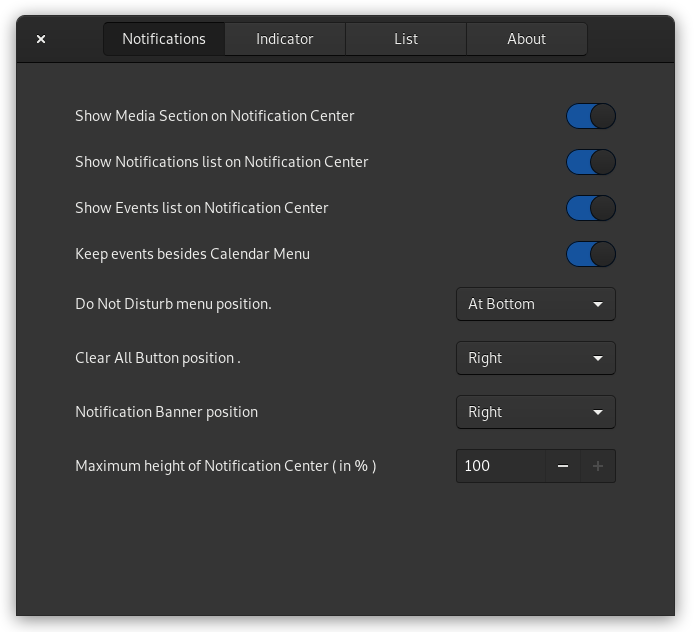
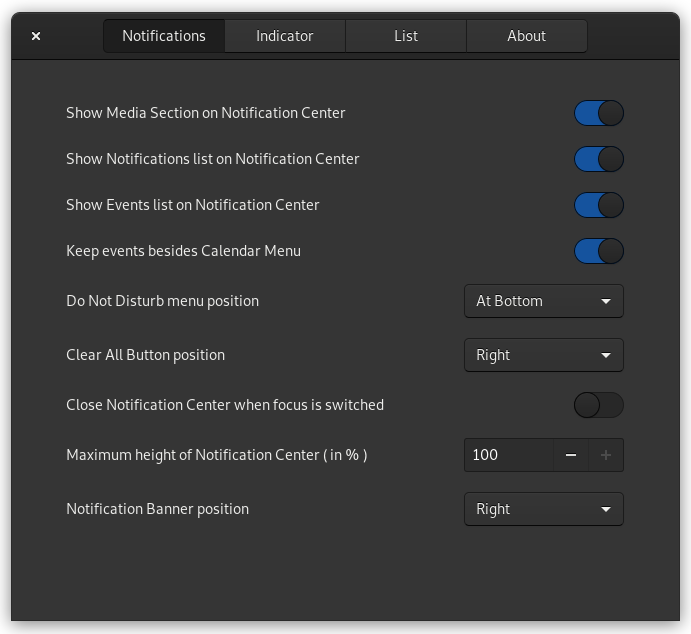
Add files via upload

diff --git a/notification-center@Selenium-H/extension.js b/notification-center@Selenium-H/extension.js
@@ -46,7 +46,7 @@ const NotificationCenter = new Lang.Class({
   _init: function () {
     Convenience.initTranslations("notification-center");
     this.prefs = Convenience.getSettings("org.gnome.shell.extensions.notification-center");
-    this.dndpref = new Gio.Settings({schema_id:'org.gnome.desktop.notifications'});
+    this.dndpref = new Gio.Settings({schema_id:"org.gnome.desktop.notifications"});
     this.parent(1-0.5*this.prefs.get_enum('indicator-pos'), "NotificationCenter");
     this.loadPreferences();
     
@@ -54,6 +54,7 @@ const NotificationCenter = new Lang.Class({
     this.showingSections = [];
     this.prefSignals = [];
     this.dmsig = null;
+    this.cmsig = null;
     this._loopTimeoutId = null;
     this.notificationCount = 0;
     this.eventsCount = 0;
@@ -64,7 +65,6 @@ const NotificationCenter = new Lang.Class({
     this.mediaIcon = new St.Icon({style_class:'system-status-icon'});
     this.notificationIcon = new St.Icon({style_class:'system-status-icon'});
     this.notificationLabel = new St.Label({ text: '',visible:false});
-
     this._indicator =  new St.BoxLayout({ vertical: false, style_class: 'panel-status-menu-box',style:"spacing:0.0em"});
 
     this._messageList = Main.panel.statusArea.dateMenu._messageList;
@@ -95,10 +95,10 @@ const NotificationCenter = new Lang.Class({
     this.menu.box.add_child(box);
   },
 
-  addThisSection:function(section,KEY,fNo) {
-    if(this.prefs.get_boolean(KEY)) {
+  addThisSection:function(section,toBeAdded,fNo) {
+    if(toBeAdded) {
       this.addSectionToThis(section);
-      this.connectedSignals.push(section._list.connect('actor-added'   ,()=> this.newNotif(fNo) ))
+      this.connectedSignals.push(section._list.connect('actor-added'   ,()=> this.newNotif(fNo) ));
       this.connectedSignals.push(section._list.connect('actor-removed' ,()=> this.remNotif(fNo) ));
       this.showingSections.push(section);   
     }
@@ -109,16 +109,29 @@ const NotificationCenter = new Lang.Class({
       this.box.add(section.actor);
   },
 
-  blinkIcon: function() {
-    if(this.prefs.get_boolean("blink-icon") && this.dndpref.get_boolean("show-banners")){
-      if(this._loopTimeoutId!=null) {
-        Mainloop.source_remove(this._loopTimeoutId);
-      }
-      this.notificationIcon.set_opacity((this.notificationIcon.get_opacity()==255)? 100 : 255);
-      this._loopTimeoutId=Mainloop.timeout_add(this.prefs.get_int('blink-time'), Lang.bind(this, this.blinkIcon));
+  autoCloseMenu : function() {
+    if (global.display.focus_window!= null && this.menu.isOpen) {
+        this.menu.close();
     }
   },
 
+  blinkIcon: function(blinkTimes,interval) {
+  
+    if(this._loopTimeoutId!=null) {
+      Mainloop.source_remove(this._loopTimeoutId);
+    }
+
+    if(blinkTimes < 0) {
+			this._loopTimeoutId=null;    
+      return;      
+    }
+    
+    if(this.dndpref.get_boolean("show-banners")){
+      this.notificationIcon.set_opacity((this.notificationIcon.get_opacity()==255)? 100 : 255);
+      this._loopTimeoutId=Mainloop.timeout_add(interval, ()=> this.blinkIcon(--blinkTimes,interval));
+    }
+  },
+  
   dndToggle: function() {
     (this.dndpref.get_boolean('show-banners')==true) ? this.dndpref.set_boolean('show-banners',false):this.dndpref.set_boolean('show-banners',true);
   },
@@ -139,7 +152,7 @@ const NotificationCenter = new Lang.Class({
             return ;
       }
     }
-    this.blinkIcon();
+    this.blinkIcon(2*this.prefs.get_int("blink-icon"),this.prefs.get_int("blink-time"));
   },
 
   indicatorViewShortcut : function() {
@@ -181,6 +194,7 @@ const NotificationCenter = new Lang.Class({
     this.showThreeIcons = this.prefs.get_boolean("individual-icons");
     this.includeEventsCount=this.prefs.get_boolean("include-events-count");
     this.newNotificationAction=this.prefs.get_enum("new-notification"); 
+    this.menuAutoclose = this.prefs.get_boolean("autoclose-menu");
   },
 
   manageAutohide: function(iconState=false) {
@@ -205,7 +219,7 @@ const NotificationCenter = new Lang.Class({
     }
     
     if(this.showEventsSection) {
-      if(Config.PACKAGE_VERSION < "3.32.0") { // For Shell Version 3.32 and beyond
+      if(Config.PACKAGE_VERSION < "3.32.0") { // For Shell Version below 3.32.0 
         if(this._messageList._eventsSection._canClear()) {
           this.actor.show();
           this.clearButton.show();
@@ -298,56 +312,55 @@ const NotificationCenter = new Lang.Class({
   },
     
   middleClickDndToggle: function (actor, event) {
-    let button = event.get_button();
-
-    if(button == 1) {
-      if (this.menu.isOpen) {
-        this._messageList.setDate(new Date());
-        if(this._loopTimeoutId!=null) { 
-          Mainloop.source_remove(this._loopTimeoutId); 
-          this._loopTimeoutId=null;
-        }    
-        if(this.prefs.get_boolean("show-label")==false) { 
-          this.notificationCount=0;
-          this.eventsCount=0;
+    switch(event.get_button()) {
+      case 1 :  // if left click
+        if (this.menu.isOpen) {
+          this._messageList.setDate(new Date());
+          if(this._loopTimeoutId!=null) { 
+            Mainloop.source_remove(this._loopTimeoutId); 
+            this._loopTimeoutId=null;
+          }    
+          if(this.prefs.get_boolean("show-label")==false) { 
+            this.notificationCount=0;
+            this.eventsCount=0;
+          }
+          this.rightClick = true;
+          this.resetIndicator();
         }
-        this.rightClick = true;
-        this.resetIndicator();
-      }
-      return;
-    }
+        return;
+        
+      case 2: // if middle click
+      
+        // close the menu, since it gets open on any click
+        if (this.menu.isOpen) {
+          this.menu.actor.hide();
+        }
+        // toggle DND state
+        this.dndToggle();
+        // reload dnd status
+        this.loadDndStatus();
+      
+        return;
+    
+      case 3 :  //if right click 
+        if(this.rightClick==false && this.menu.isOpen == true) {
+          this.removeAndDisconnectSections();
+          this.showEventsInCalendar = false;
+          this.menu.close();
+          Main.panel.statusArea.dateMenu.menu.open();
+          Main.panel.statusArea.dateMenu.menu.close();
+          this.showEventsInCalendar=(this.showEventsSection)?this.prefs.get_boolean("show-events-in-calendar"): false; 
+          this.rebuildMessageList();
+          this.menu.open();
+          this.rightClick = true;
+          return ;
+        }
 
-    if(button == 3) {
-
-      if(this.rightClick==false && this.menu.isOpen == true) {
-        this.removeAndDisconnectSections();
-        this.showEventsInCalendar = false;
-        this.menu.close();
-        Main.panel.statusArea.dateMenu.menu.open();
-        Main.panel.statusArea.dateMenu.menu.close();
-        this.showEventsInCalendar=(this.showEventsSection)?this.prefs.get_boolean("show-events-in-calendar"): false; 
-        this.rebuildMessageList();
-        this.menu.open();
-        this.rightClick = true;
-        return ;
-      }
-
-      if(this.rightClick==true || this.menu.isOpen==false) {
-        this.rightClick = false;
+        if(this.rightClick==true || this.menu.isOpen==false) {
+          this.rightClick = false;
+        }
         return;
       }
-    }  
-    // if middle click
-    if (button == 2) {
-      // close the menu, since it gets open on any click
-      if (this.menu.isOpen) {
-        this.menu.actor.hide();
-      }
-      // toggle DND state
-      this.dndToggle();
-      // reload dnd status
-      this.loadDndStatus();
-    };
   },
 
   newNotif: function(fNo) {
@@ -364,9 +377,9 @@ const NotificationCenter = new Lang.Class({
   },
 
   rebuildMessageList: function() {
-    this.addThisSection(this._messageList._mediaSection        ,"show-media"         ,0);
-    this.addThisSection(this._messageList._notificationSection ,"show-notifications" ,1);
-    this.addThisSection(this._messageList._eventsSection       ,"show-events"        ,2);
+    this.addThisSection(this._messageList._mediaSection        ,this.showMediaSection         ,0);
+    this.addThisSection(this._messageList._notificationSection ,this.showNotificationSection  ,1);
+    this.addThisSection(this._messageList._eventsSection       ,this.showEventsSection        ,2);
     this.manageEvents(1);
   },
 
@@ -383,9 +396,7 @@ const NotificationCenter = new Lang.Class({
   },
 
   removeAndDisconnectSections : function() {
-    
     let len=this.showingSections.length;
-    
     while(len!=0) {
       this.showingSections[len-1]._list.disconnect(this.connectedSignals[2*len-1]);
       this.showingSections[len-1]._list.disconnect(this.connectedSignals[2*len-2]);
@@ -443,7 +454,6 @@ const NotificationCenter = new Lang.Class({
       this.resetIndicator();
       return ;
     }
-    
     this.manageEvents(0);
   },
 
@@ -496,6 +506,10 @@ const NotificationCenter = new Lang.Class({
         this.resetIndicator();
       });
     }
+    
+    if(this.menuAutoclose) {
+      this.cmsig = global.display.connect('notify::focus-window', () => this.autoCloseMenu());
+    }
   },
 
   undoChanges: function () {
@@ -516,8 +530,12 @@ const NotificationCenter = new Lang.Class({
     Main.messageTray._bannerBin.show();
     Main.messageTray._bannerBin.x=0;
     
-    if(this.dmSig!= null) {
+    if(this.showEventsSection) {
       Main.panel.statusArea.dateMenu.menu.disconnect(this.dmSig);
+    }
+    
+    if(this.menuAutoclose) {
+       global.display.disconnect(this.cmsig);
     }
 
     for(let i=1;i<this.dtActors.length;i++) {

diff --git a/notification-center@Selenium-H/prefs.js b/notification-center@Selenium-H/prefs.js
@@ -60,8 +60,9 @@ const Prefs1 =  new GObject.Class({
           this.prefSwitch("show-events-in-calendar", 3);
           this.prefCombo ('dnd-position', 4, ['none','top','bottom'], [_("Don't Show"), _('On Top'), _('At Bottom')]);
           this.prefCombo ('clear-button-alignment', 5, ['left','center','right','hide'], [_('Left'), _('Center'), _('Right'), _("Don't Show")]);
-          this.prefCombo ('banner-pos', 6, ['left','center','right' ], [_('Left'), _('Center'), _('Right')]);
+          this.prefSwitch("autoclose-menu", 6);
           this.prefTime  ('max-height', 7, 20, 100, 1);
+          this.prefCombo ('banner-pos', 8, ['left','center','right' ], [_('Left'), _('Center'), _('Right')]);
           break;
         case 2:
           this.prefCombo ('indicator-pos', 0, ['left','center','right'], [_('Left'), _('Center'), _('Right')]);
@@ -69,11 +70,11 @@ const Prefs1 =  new GObject.Class({
           this.prefSwitch('autohide', 2);
           this.prefStr('indicator-shortcut', 3, ['<Alt>', '<Ctrl>', '<Shift>', '<Super>'], [_('Alt Key'), _('Ctrl Key'), _('Shift Key'), _('Super Key')]);
           this.prefCombo('new-notification', 4, ['none', 'dot', 'count'], [_('Show Nothing'), _('Show Dot'), _('Show Count')]);
-           this.prefSwitch('include-events-count', 5);
-          this.prefSwitch('blink-icon', 6);
+          this.prefSwitch('include-events-count', 5);
+          this.prefTime('blink-icon', 6,0,10000,1);
           this.prefTime ('blink-time', 7, 100, 10000, 10);
           this.prefSwitch('show-label', 8);
-          this.prefSwitch('middle-click-dnd'  ,9);
+          this.prefSwitch('middle-click-dnd' ,9);
         default:
           break;
     }
@@ -81,7 +82,7 @@ const Prefs1 =  new GObject.Class({
 },
 
  attachLabel: function(KEY,pos) {
-   let prefLabel = new Gtk.Label({xalign: 1, label: _(settings.settings_schema.get_key(KEY).get_description()), halign: Gtk.Align.START});
+   let prefLabel = new Gtk.Label({xalign: 1, label: _(settings.settings_schema.get_key(KEY).get_summary()), halign: Gtk.Align.START});
    this.grid.attach(prefLabel,0,pos,1,1);
  },
   
@@ -173,7 +174,7 @@ const AppsListPrefs = new GObject.Class({
 
 
   attachLabel: function(KEY,pos,box) {
-    let prefLabel = new Gtk.Label({xalign: 1, label: _(settings.settings_schema.get_key(KEY).get_description()), halign: Gtk.Align.START});
+    let prefLabel = new Gtk.Label({xalign: 1, label: _(settings.settings_schema.get_key(KEY).get_summary()), halign: Gtk.Align.START});
     box.attach(prefLabel,0,pos,1,1);
   },
  
@@ -337,8 +338,10 @@ const AboutPage = new GObject.Class({
 		settings.reset("show-events-in-calendar");
 		settings.reset("dnd-position"           );
 		settings.reset("clear-button-alignment" );
+		settings.reset("autoclose-menu"         );
+	  settings.reset("max-height"             );
 		settings.reset("banner-pos"             );
-		settings.reset("max-height"             );
+
 		
 		settings.reset("indicator-pos"          );
 		settings.reset("individual-icons"       );
